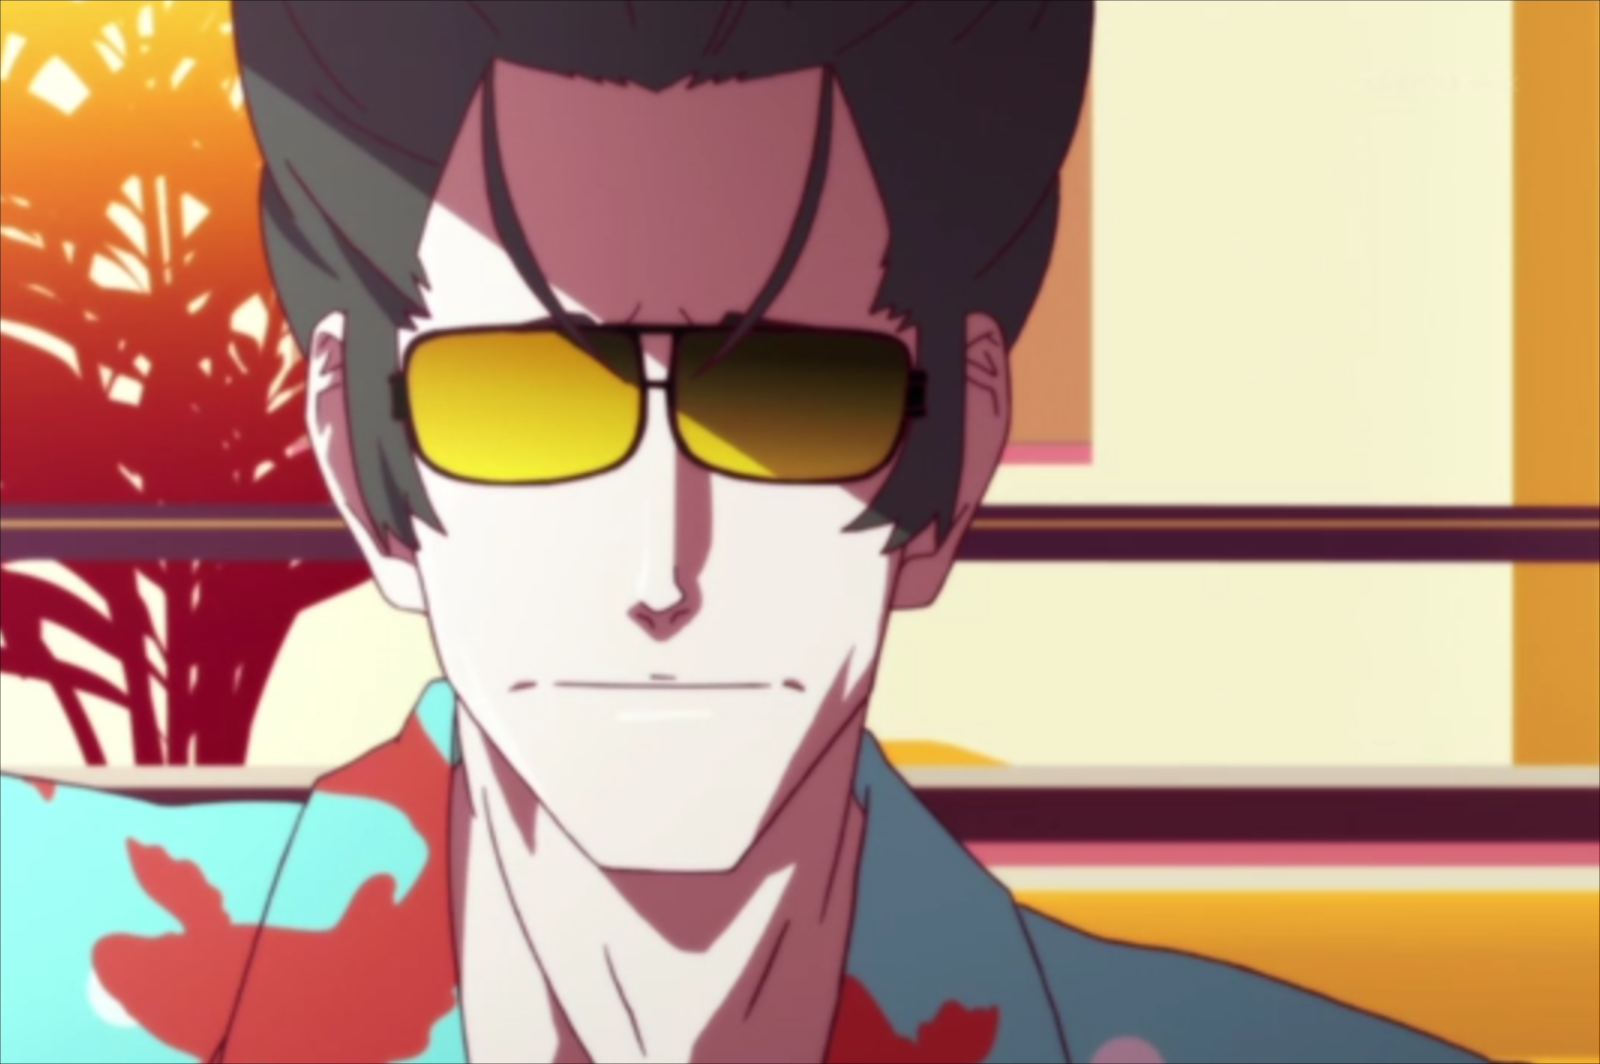
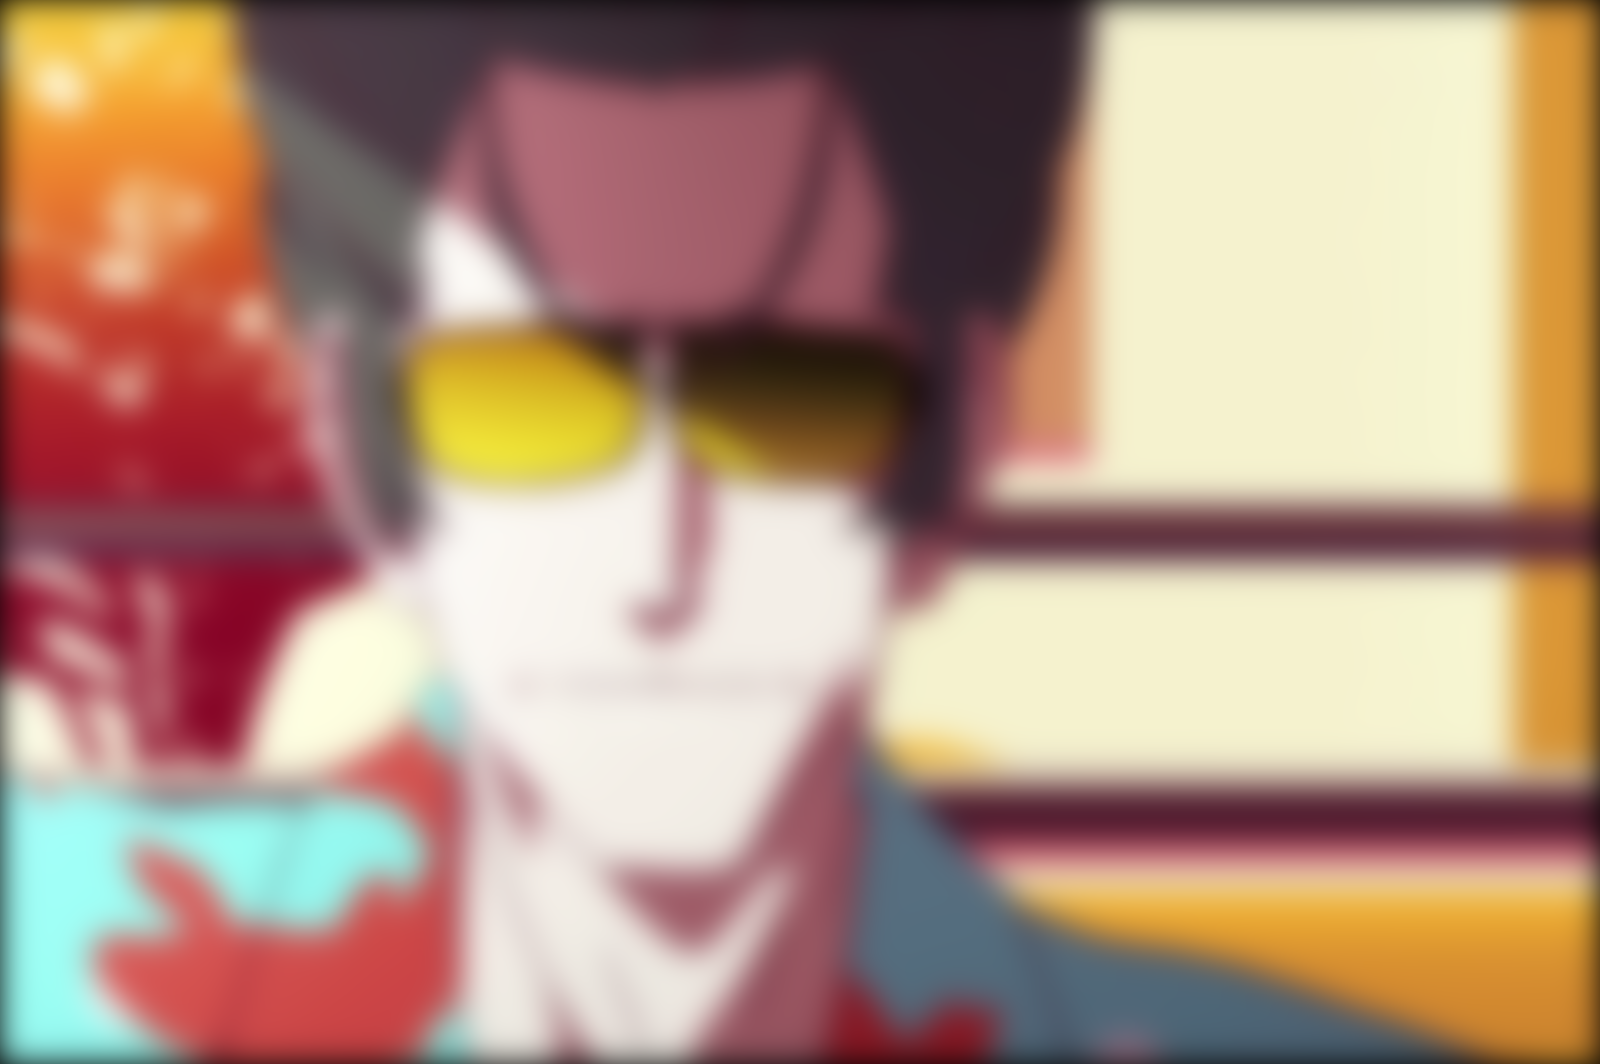
Moved BitmapData code from main window to BlurTask class. Cleanup and optimisation probably needed.

diff --git a/GaussBlur/BlurTask.cs b/GaussBlur/BlurTask.cs
@@ -1,8 +1,10 @@
 using System;
 using System.Collections.Generic;
+using System.Drawing;
 using System.IO;
 using System.Text;
 using System.Threading;
+using System.Runtime.InteropServices;
 
 namespace GaussBlur
 {
@@ -11,13 +13,13 @@ namespace GaussBlur
         public BlurThreadFactory Factory
         { get; private set; }
 
-        public RGBArray Image
+        public Bitmap Image
         { get; private set; }
 
         public GaussKernel Kernel
         { get; private set; }
 
-        public BlurTask(BlurThreadFactory factory, RGBArray image, GaussKernel kernel)
+        public BlurTask(BlurThreadFactory factory, Bitmap image, GaussKernel kernel)
         {
             Factory = factory;
             Image = image;
@@ -26,12 +28,18 @@ namespace GaussBlur
 
         public void Blur()
         {
-            int[] slices = Image.Slice(Factory.ThreadCount);
-            double[] helperArray = new double[Image.Length];
+            System.Drawing.Rectangle rect = new System.Drawing.Rectangle(0, 0, Image.Width, Image.Height);
+            System.Drawing.Imaging.BitmapData imageData =
+                Image.LockBits(rect, System.Drawing.Imaging.ImageLockMode.ReadWrite,
+                Image.PixelFormat);
+
+            RGBArray rgbArray = new RGBArray(imageData);
+            int[] slices = rgbArray.Slice(Factory.ThreadCount);
+            double[] helperArray = new double[rgbArray.Length];
             
             unsafe
             {
-                fixed (double* dataP = Image.Data,
+                fixed (double* dataP = rgbArray.Data,
                     helperP = helperArray,
                     kernelP = Kernel.Data)
                 {
@@ -42,8 +50,8 @@ namespace GaussBlur
                             helperP,
                             slices[i],
                             slices[i + 1],
-                            Image.Stride,
-                            Image.Height,
+                            rgbArray.Stride,
+                            rgbArray.Height,
                             kernelP,
                             Kernel.Size);
 
@@ -56,6 +64,9 @@ namespace GaussBlur
                     }
                 }
             }
+
+            Marshal.Copy(rgbArray.ToByteArray(), 0, imageData.Scan0, rgbArray.Length);
+            Image.UnlockBits(imageData);
         }
 
         public void Save(string filename)

diff --git a/GaussBlur/MainWindow.xaml.cs b/GaussBlur/MainWindow.xaml.cs
@@ -113,23 +113,15 @@ namespace GaussBlur
                         if (File.Exists(inpDir))
                         {
                             Bitmap image = new Bitmap(inpDir);
-                            System.Drawing.Rectangle rect = new System.Drawing.Rectangle(0, 0, image.Width, image.Height);
-                            System.Drawing.Imaging.BitmapData imageData =
-                                image.LockBits(rect, System.Drawing.Imaging.ImageLockMode.ReadWrite,
-                                image.PixelFormat);
-
-                            RGBArray rgbArr = new RGBArray(imageData);
+                            
                             CBlurThreadFactory factory = new CBlurThreadFactory(threadCount);
-                            BlurTask blur = new BlurTask(factory, rgbArr, new GaussKernel(kernelSize, stdDev));
+                            BlurTask blur = new BlurTask(factory, image, new GaussKernel(kernelSize, stdDev));
                             Stopwatch sw = new Stopwatch();
 
                             sw.Start();
                             blur.Blur();
                             sw.Stop();
                             MessageBox.Show($"Finished in {sw.ElapsedMilliseconds / 1000.0 } seconds.");
-
-                            Marshal.Copy(rgbArr.ToByteArray(), 0, imageData.Scan0, rgbArr.Length);
-                            image.UnlockBits(imageData);
 
                             image.Save(outFileDir);
 

diff --git a/GaussBlur/RGBArray.cs b/GaussBlur/RGBArray.cs
@@ -58,7 +58,7 @@ namespace GaussBlur
             data = System.Linq.Enumerable.ToArray(System.Linq.Enumerable.Select(bytes, Convert.ToDouble));
         }
 
-        public RGBArray(Bitmap image)
+        private RGBArray(Bitmap image)
         {
             Rectangle rect = new Rectangle(0, 0, image.Width, image.Height);
             System.Drawing.Imaging.BitmapData imageData = image.LockBits(
